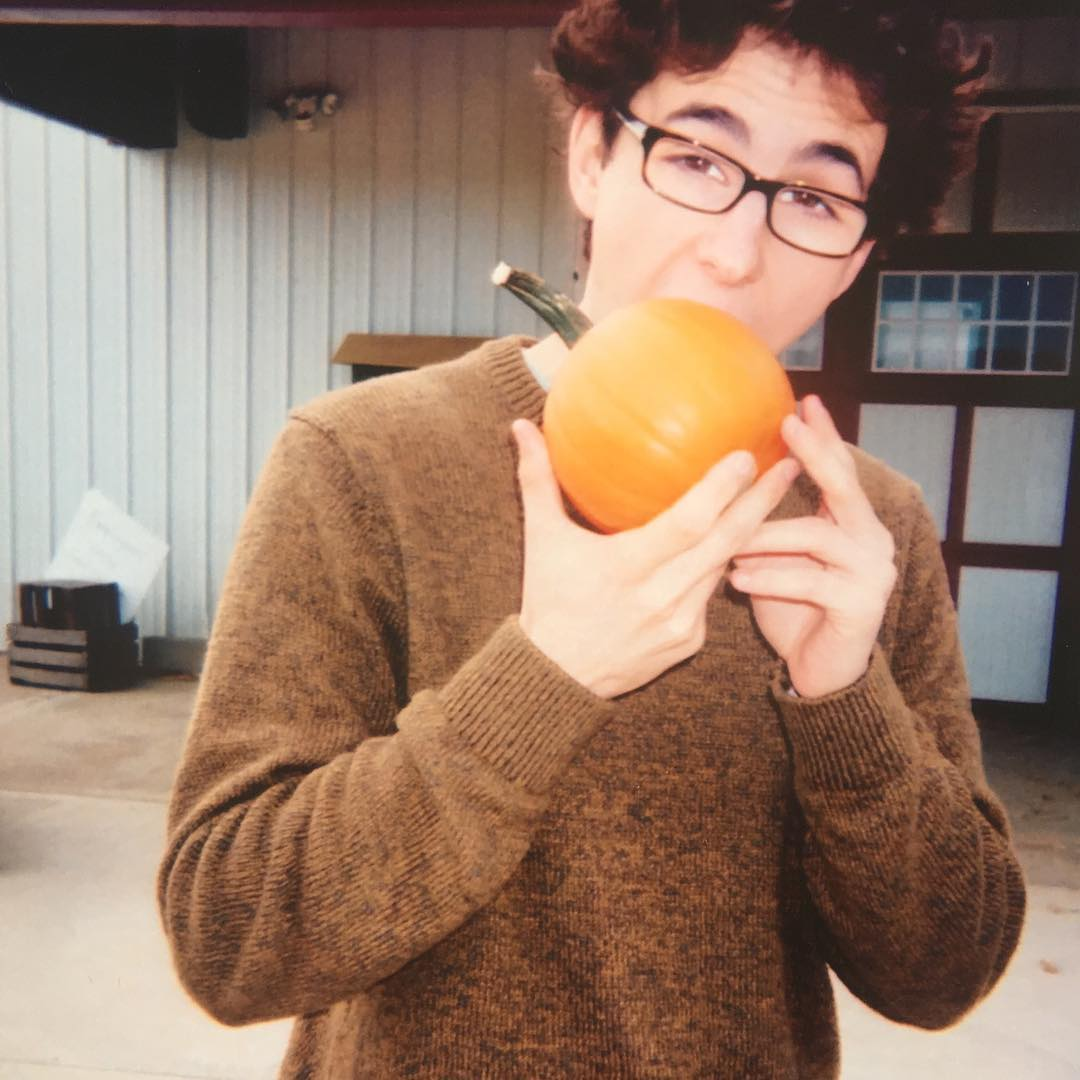
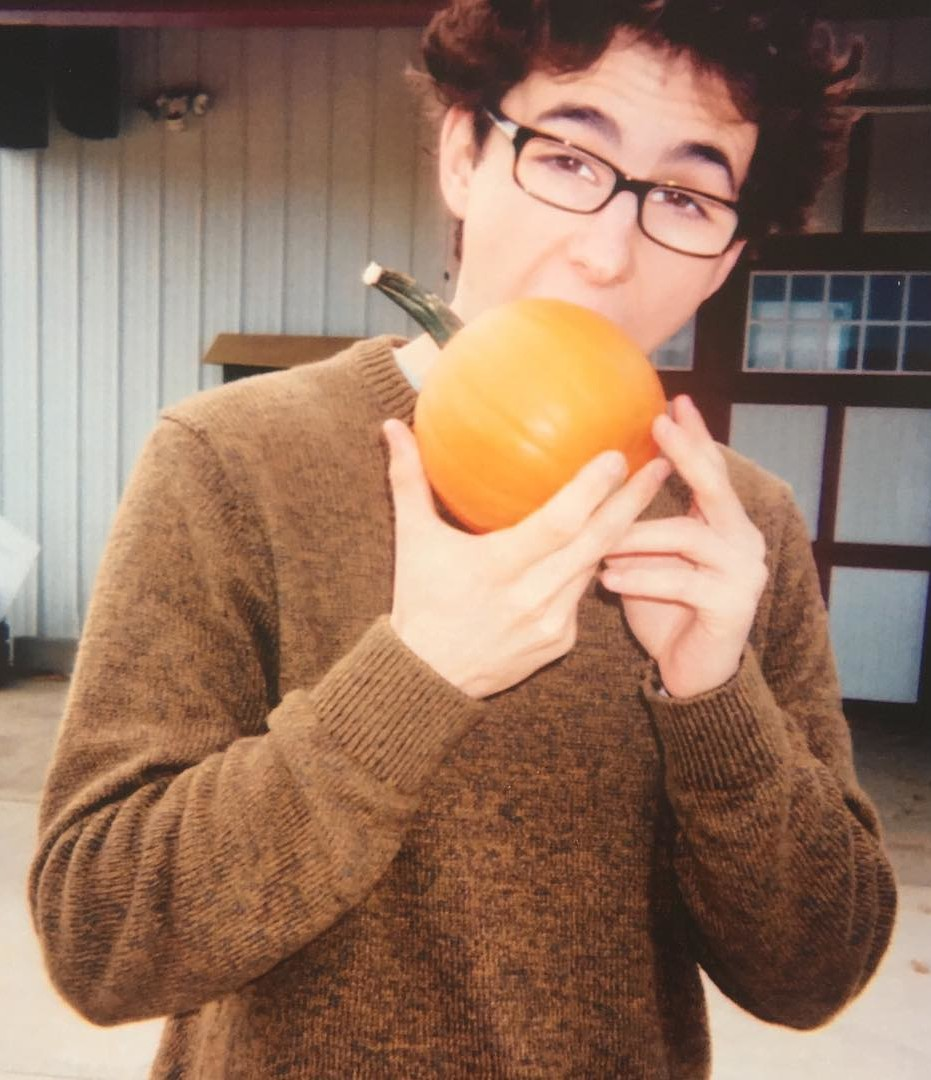
updated photo, links

diff --git a/index.html b/index.html
@@ -33,16 +33,15 @@
                     <h1 class="header_title">HARPER OKLAHOMA WEEKS WALLACE</h1>
                     <p class="header_subtitle">Aspiring computational psychiatrist, with particular interest in mood and thought disorders</p>
                     <table class="header_information">
-                        <tr><td class="left">Google Scholar:</td><td class="left"><a href="https://scholar.google.com/citations?user=Nkduu3oAAAAJ&hl=en&oi=ao" target="_blank" rel="noopener noreferrer">https://scholar.google.com/citations?user=Nkduu3oAAAAJ&hl=en&oi=ao</a></td></tr>
-                        <tr><td class="left">LinkedIn:</td><td class="left"><a href="https://www.linkedin.com/in/harper-o-w-wallace-379028152/" target="_blank" rel="noopener noreferrer">https://www.linkedin.com/in/harper-o-w-wallace-379028152/</a></td></tr>
-                        <tr><td class="left">GitHub:</td><td class="left"><a href="https://github.com/howwallace" target="_blank" rel="noopener noreferrer">https://github.com/howwallace</a></td></tr>
-                        <tr><td class="left">Email:</td><td class="left">harperowwallace [arobase] gmail [point] com</td></tr>
-                        <tr><td class="left" colspan=2>(Please email me for access to password-protected files.)</td></tr>
-                        <tr><td class="left" colspan=2>Here's my CV as a <a href="https://howwallace.github.io/cv.pdf" target="_blank" rel="noopener noreferrer">[pdf]</a>.</td></tr>
+                        <tr><td class="left">harperowwallace [arobase] gmail [point] com</td></tr>
+                        <tr><td class="left"><a href="https://scholar.google.com/citations?user=Nkduu3oAAAAJ&hl=en&oi=ao" target="_blank" rel="noopener noreferrer">[Google Scholar]</a></td></tr>
+                        <tr><td class="left"><a href="https://www.linkedin.com/in/harper-o-w-wallace-379028152/" target="_blank" rel="noopener noreferrer">[LinkedIn]</a></td></tr>
+                        <tr><td class="left"><a href="https://github.com/howwallace" target="_blank" rel="noopener noreferrer">[GitHub]</a></td></tr>
+                        <tr><td class="left"><a href="https://howwallace.github.io/cv.pdf" target="_blank" rel="noopener noreferrer">[CV]</a></td></tr>
                     </table>
                 </div>
                 <div class="header_img">
-                    <img src="WALLACE.Harper.jpg" alt="WALLACE,Harper" style="width:200px;">
+                    <img src="WALLACE,Harper.jpg" alt="WALLACE,Harper" style="width:210px;">
                 </div>
             </div>
             <h3 id="education" class="table_header">EDUCATION</h3>
